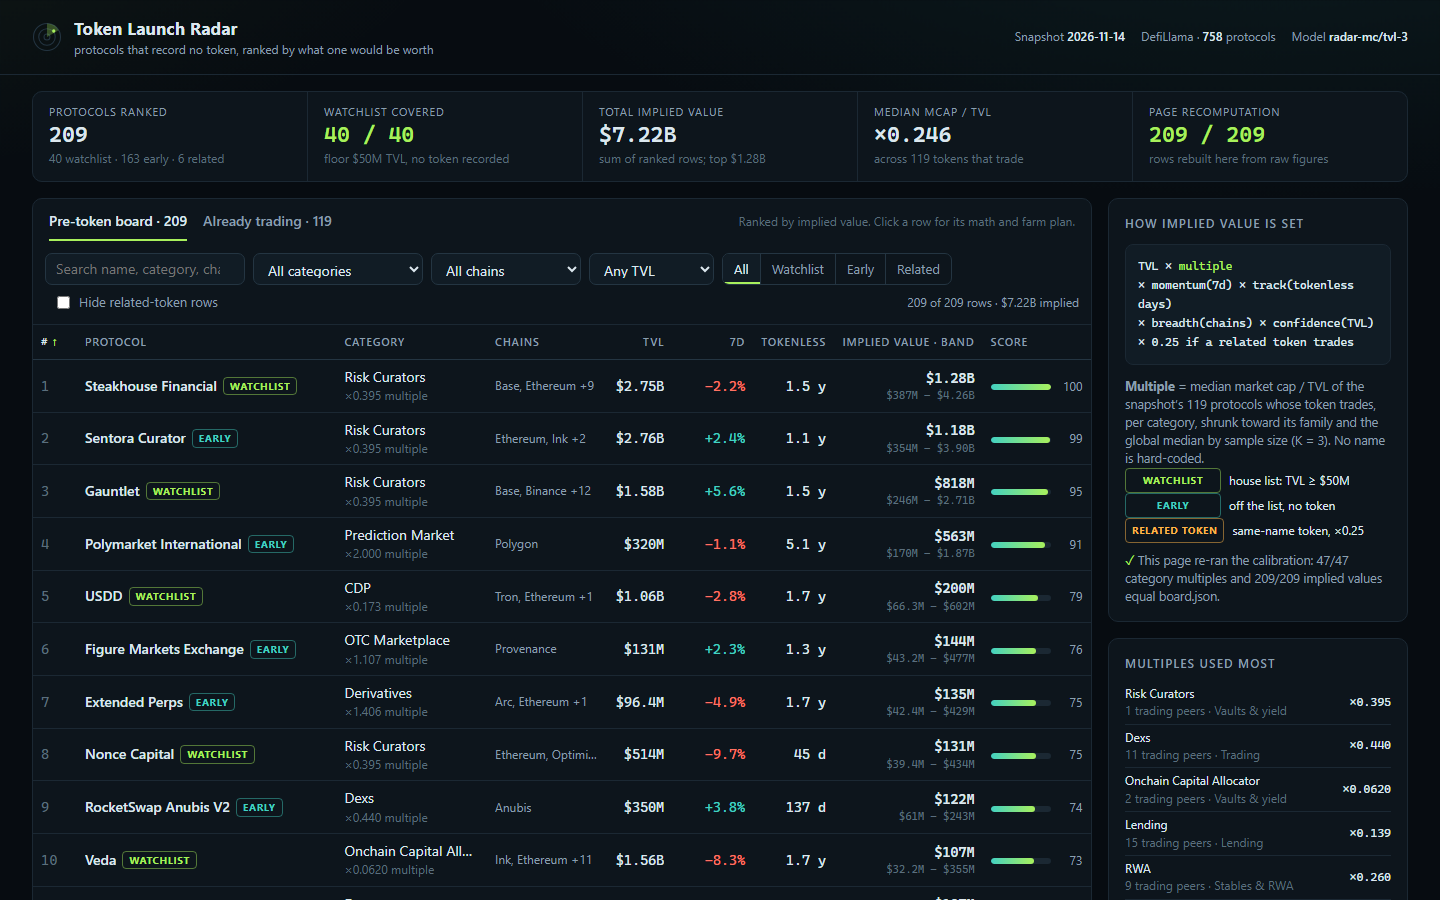
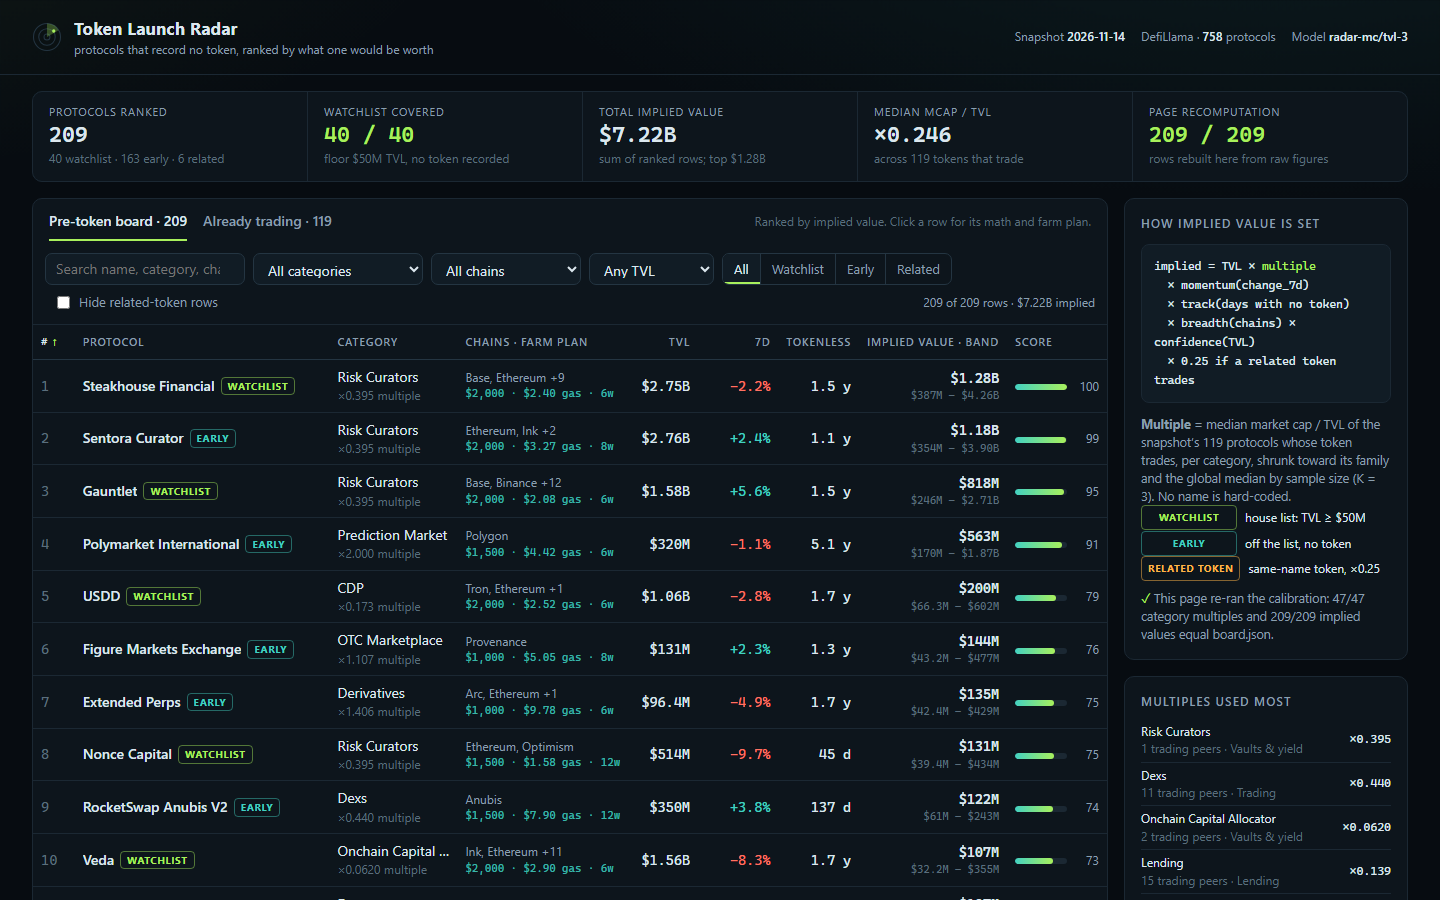
Farm summary on every board row, family-specific weekly actions, plans state 'records no token'; main.ts: snapshot errors, coverage check, summary block; formula box per factor

diff --git a/main.ts b/main.ts
@@ -15,8 +15,8 @@
 import { copyFileSync, existsSync, mkdirSync, readFileSync, readdirSync, statSync, writeFileSync } from 'node:fs';
 import { join } from 'node:path';
 import { fileURLToPath } from 'node:url';
-import { FAMILIES, GAS, K, MODEL_VERSION, boardIssue, buildRadar, parseSnapshot, stepStrings } from './lib/model.ts';
-import type { Row } from './lib/model.ts';
+import { FAMILIES, GAS, K, MODEL_VERSION, SnapshotError, boardIssue, buildRadar, median, parseSnapshot, stepStrings } from './lib/model.ts';
+import type { Row, Snapshot } from './lib/model.ts';
 import { buildDossier } from './vendor/makefun-board.ts';
 
 const here = fileURLToPath(new URL('.', import.meta.url));
@@ -39,8 +39,16 @@ const inputFile = inputArg.endsWith('.json') ? inputArg : join(inputArg, 'snapsh
 if (!existsSync(inputFile)) fail(`no snapshot at ${inputFile}: pass --input <snapshot.json|dir>`, 2);
 const out = arg('output', process.env.MAKEFUN_OUTPUT_DIR ?? '/output');
 
-const snapshot = parseSnapshot(readFileSync(inputFile, 'utf8'));
+let snapshot: Snapshot;
+try {
+  snapshot = parseSnapshot(readFileSync(inputFile, 'utf8'));
+} catch (err) {
+  fail(err instanceof SnapshotError ? err.message : `cannot read ${inputFile}: ${String(err)}`, 2);
+}
 const radar = buildRadar(snapshot);
+const covered = new Set(radar.rows.map((r) => r.slug));
+const uncovered = snapshot.watchlist.filter((w) => !covered.has(w));
+if (uncovered.length > 0) fail(`watchlist slugs the snapshot does not list: ${uncovered.join(', ')}`);
 
 // ---------------------------------------------------------------- board.json
 
@@ -70,6 +78,22 @@ const boardRow = (r: Row) => ({
 const rows = radar.rows.map(boardRow);
 const issue = boardIssue(rows, snapshot);
 if (issue !== null) fail(`the board would fail the gate: ${issue}`);
+const silent = rows.filter((r) => r.lane !== 'related' && !r.farm_steps.some((t) => t.includes('records no token')));
+if (silent.length > 0) fail(`${silent[0]!.slug}'s plan never says it records no token`);
+
+const lanes = { watchlist: 0, early: 0, related: 0 };
+for (const r of radar.rows) lanes[r.lane]++;
+const values = radar.rows.map((r) => r.implied_value_usd);
+const summary = {
+  rows: rows.length,
+  lanes,
+  watchlist_covered: `${snapshot.watchlist.length}/${snapshot.watchlist.length}`,
+  calibration_peers: radar.peers.length,
+  total_implied_usd: values.reduce((a, v) => a + v, 0),
+  median_implied_usd: median(values),
+  global_multiple: radar.calibration.global.multiple,
+  top: rows.slice(0, 5).map((r) => `${r.rank}. ${r.name} ${r.implied_value_usd}`),
+};
 
 const modelNote = {
   version: MODEL_VERSION,
@@ -81,7 +105,7 @@ const modelNote = {
   note: 'Implied value is this radar\'s claim of what a token would be worth if the protocol\'s record stayed as it is; it does not predict whether or when a token is issued. A protocol here records no token in the snapshot; that is not proof it has none.',
 };
 mkdirSync(out, { recursive: true });
-writeFileSync(join(out, 'board.json'), `${JSON.stringify({ model: modelNote, calibration: radar.calibration, excluded: radar.excluded, rows })}\n`);
+writeFileSync(join(out, 'board.json'), `${JSON.stringify({ model: modelNote, summary, calibration: radar.calibration, excluded: radar.excluded, rows })}\n`);
 
 // ---------------------------------------------------------------- data.js
 
@@ -123,8 +147,6 @@ for (const n of shots) if (!IMAGE_NAME.test(n)) fail(`screenshots/${n} is not a 
 
 writeFileSync(join(out, 'dossier.json'), buildDossier(out, { text_max_bytes: TEXT_MAX_BYTES, screenshots: { max: 4, max_bytes: 524_288 }, dashboard: { max_files: 400, max_bytes: 4_194_304 } }));
 
-const lanes = { watchlist: 0, early: 0, related: 0 };
-for (const r of radar.rows) lanes[r.lane]++;
 process.stdout.write(
   `token radar: ${snapshot.protocols.length} protocols, ${radar.peers.length} calibration peers, ${rows.length} rows ` +
     `(${lanes.watchlist} watchlist, ${lanes.early} early, ${lanes.related} related-token)\n` +

diff --git a/lib/model.ts b/lib/model.ts
@@ -312,7 +312,18 @@ export interface Plan {
   steps: PlanStep[];
 }
 
-const money = (n: number): string => (n >= 100 ? `$${Math.round(n).toLocaleString('en-US')}` : n >= 1 ? `$${n.toFixed(2).replace(/\.00$/, '')}` : `$${n.toFixed(2)}`);
+/** Dollars as text, with thousands grouped by hand (no locale data, so every run spells it the same). */
+const money = (n: number): string => (n >= 100 ? `$${String(Math.round(n)).replace(/\B(?=(\d{3})+$)/g, ',')}` : n >= 1 ? `$${n.toFixed(2).replace(/\.00$/, '')}` : `$${n.toFixed(2)}`);
+
+/** The weekly touch that keeps a wallet active, by family: what an active user of that kind of app does. */
+const WEEKLY_ACTION: Record<string, string> = {
+  Lending: 'repay 10% of the loan and borrow it again, or add $50 of supply',
+  Trading: 'trade the week\'s volume and close every position by the weekend',
+  'Vaults & yield': 'top up $50 or claim and compound the vault\'s rewards',
+  'Stables & RWA': 'claim the accrued yield and restake it, or add $50 to the position',
+  'Chains & infra': 'make one swap, one deposit and one withdrawal in the ecosystem\'s apps',
+  Other: 'claim, compound or top up the position by $50',
+};
 
 /** The chain to farm on: the protocol's main (first) chain, unless that costs a dollar or more a transaction and a cheap chain is among its first four. */
 export function chainFor(p: SnapshotProtocol): { chain: string; gas: number; fund: number; alt: string | null } {
@@ -419,7 +430,7 @@ export function buildPlan(p: SnapshotProtocol, age: number | null, lane: Lane): 
   steps.push({ step: 'Enter', action: `${action}.`, capital, fees: r2(txs * gas), txs, minutes: 10 + txs * 5, span: 'day 0' });
   steps.push({
     step: 'Repeat',
-    action: `Once a week, claim or compound and make one extra interaction (top-up, rebalance or a swap) so the address is active in every weekly snapshot for ${weeks} weeks: ${weeks * 2} transactions in all${weeklyFee > 0 ? `, plus about ${money(weeklyFee)} a week in trading fees` : ''}.`,
+    action: `Once a week for ${weeks} weeks, ${WEEKLY_ACTION[familyOf(p.category)]}, so the address is active in every weekly snapshot: ${weeks * 2} transactions in all${weeklyFee > 0 ? `, plus about ${money(weeklyFee)} a week in trading fees` : ''}.`,
     capital: 0, fees: r2(weeks * (2 * gas + weeklyFee)), txs: weeks * 2, minutes: weeks * 10, span: `${weeks} weeks`,
   });
   if (p.chains.length >= 3) {
@@ -435,7 +446,7 @@ export function buildPlan(p: SnapshotProtocol, age: number | null, lane: Lane): 
   }
   steps.push({
     step: 'Track',
-    action: `Track ${track} every week. Its TVL moved ${mom === null ? 'an unreported amount' : `${mom > 0 ? '+' : ''}${mom.toFixed(1)}%`} in the snapshot week; a fall of 25% or more in a week, or a paused withdrawal, is the signal to exit.`,
+    action: `${p.name} records no token in the snapshot; watch its own site for a points page or token news. Track ${track} every week. Its TVL moved ${mom === null ? 'an unreported amount' : `${mom > 0 ? '+' : ''}${mom.toFixed(1)}%`} in the snapshot week; a fall of 25% or more in a week, or a paused withdrawal, is the signal to exit.`,
     capital: 0, fees: 0, txs: 0, minutes: weeks * 5, span: 'weekly',
   });
   steps.push({

diff --git a/dashboard/app.css b/dashboard/app.css
@@ -56,7 +56,7 @@ button, input, select { font: inherit; color: inherit; }
 main { padding: var(--s4) var(--s6) var(--s6); }
 
 /* board layout */
-.layout { display: grid; grid-template-columns: minmax(0, 1fr) 300px; gap: var(--s4); align-items: start; }
+.layout { display: grid; grid-template-columns: minmax(0, 1fr) 284px; gap: var(--s4); align-items: start; }
 .panel { background: var(--panel); border: 1px solid var(--line); border-radius: var(--r); overflow: hidden; }
 body.is-detail .kpis { display: none; }
 .panel h3 { margin: 0; font-size: 12px; text-transform: uppercase; letter-spacing: .09em; color: var(--mute); font-weight: 600; }
@@ -91,15 +91,16 @@ td { padding: 7px 8px; border-bottom: 1px solid var(--line); vertical-align: mid
 tbody tr { cursor: pointer; }
 tbody tr:hover td { background: rgba(67, 209, 193, .05); }
 td.rk { color: var(--dim); width: 44px; font-family: var(--mono); }
-.pname { font-weight: 600; max-width: 190px; overflow: hidden; text-overflow: ellipsis; display: inline-block; vertical-align: bottom; }
+.pname { font-weight: 600; max-width: 172px; overflow: hidden; text-overflow: ellipsis; display: inline-block; vertical-align: bottom; }
 .sub { display: block; color: var(--dim); font-size: 12px; }
-.chains { color: var(--mute); font-size: 12px; max-width: 120px; overflow: hidden; text-overflow: ellipsis; }
-.catc { max-width: 150px; overflow: hidden; text-overflow: ellipsis; }
+.chains { color: var(--mute); font-size: 12px; max-width: 176px; overflow: hidden; text-overflow: ellipsis; }
+.sub.farm { color: var(--teal); opacity: .85; font-family: var(--mono); font-size: 11px; }
+.catc { max-width: 128px; overflow: hidden; text-overflow: ellipsis; }
 .up { color: var(--teal); }
 .down { color: var(--red); }
 .val { font-weight: 600; }
 .band { display: block; color: var(--dim); font-size: 11px; }
-.bar { width: 60px; height: 6px; background: var(--line); border-radius: 3px; overflow: hidden; display: inline-block; vertical-align: middle; }
+.bar { width: 52px; height: 6px; background: var(--line); border-radius: 3px; overflow: hidden; display: inline-block; vertical-align: middle; }
 .bar i { display: block; height: 100%; background: linear-gradient(90deg, var(--teal), var(--lime)); border-radius: 3px; }
 .bar.rel i { background: var(--amber); }
 .sc { display: inline-block; width: 26px; text-align: right; color: var(--mute); font-size: 12px; margin-left: 6px; }
@@ -113,7 +114,7 @@ td.rk { color: var(--dim); width: 44px; font-family: var(--mono); }
 
 /* side rail */
 .rail { display: grid; gap: var(--s4); }
-.formula { font: 11.5px/1.65 var(--mono); color: var(--ink); background: var(--panel-2); border: 1px solid var(--line); border-radius: 8px; padding: var(--s3); margin: var(--s3) 0; }
+.formula { white-space: pre-wrap; font: 11.5px/1.65 var(--mono); color: var(--ink); background: var(--panel-2); border: 1px solid var(--line); border-radius: 8px; padding: var(--s3); margin: var(--s3) 0; }
 .formula em { color: var(--lime); font-style: normal; }
 .rail p { margin: var(--s2) 0 0; color: var(--mute); font-size: 12.5px; }
 .mini { width: 100%; font-size: 12px; margin-top: var(--s2); }

diff --git a/dashboard/app.js b/dashboard/app.js
@@ -140,7 +140,7 @@
     var top = Object.keys(cats).sort(function (a, b) { return cats[b] - cats[a] || (a < b ? -1 : 1); }).slice(0, 7);
     return '<aside class="rail">' +
       '<div class="panel pad"><h3>How implied value is set</h3>' +
-      '<div class="formula">TVL × <em>multiple</em><br>× momentum(7d) × track(tokenless days)<br>× breadth(chains) × confidence(TVL)<br>× 0.25 if a related token trades</div>' +
+      '<div class="formula">implied = TVL × <em>multiple</em><br>  × momentum(change_7d)<br>  × track(days with no token)<br>  × breadth(chains) × confidence(TVL)<br>  × ' + K.related_haircut + ' if a related token trades</div>' +
       '<p><b>Multiple</b> = median market cap / TVL of the snapshot’s ' + D.peers.length + ' protocols whose token trades, per category, shrunk toward its family and the global median by sample size (K = ' + K.shrink + '). No name is hard-coded.</p>' +
       '<div class="legend">' + tag('watchlist') + '<span>house list: TVL ≥ ' + usd(D.floor_usd) + '</span>' + tag('early') + '<span>off the list, no token</span>' + tag('related') + '<span>same-name token, ×' + K.related_haircut + '</span></div>' +
       '<p class="check"><span class="ok">✓</span> This page re-ran the calibration: ' + CAT_OK + '/' + catList.length + ' category multiples and ' + MATCH + '/' + D.rows.length + ' implied values equal board.json.</p></div>' +
@@ -154,7 +154,7 @@
 
   // ------------------------------------------------------------ the board
   var COLS = [
-    ['rank', '#', 'rk'], ['name', 'Protocol', ''], ['cat', 'Category', ''], ['chains', 'Chains', ''],
+    ['rank', '#', 'rk'], ['name', 'Protocol', ''], ['cat', 'Category', ''], ['chains', 'Chains · farm plan', ''],
     ['tvl', 'TVL', 'n'], ['c7', '7d', 'n'], ['age', 'Tokenless', 'n'], ['v', 'Implied value · band', 'n'], ['score', 'Score', '']
   ];
   function keyOf(r, k) {
@@ -184,7 +184,7 @@
     return '<tr data-slug="' + esc(r.slug) + '"><td class="rk">' + r.rank + '</td>' +
       '<td><span class="pname">' + esc(r.name) + '</span>' + tag(r.lane) + '</td>' +
       '<td class="catc">' + esc(r.cat || 'Uncategorised') + '<span class="sub">' + x(r.f.multiple) + ' multiple</span></td>' +
-      '<td class="chains">' + esc(r.chains.slice(0, 2).join(', ')) + more + '</td>' +
+      '<td class="chains">' + esc(r.chains.slice(0, 2).join(', ')) + more + '<span class="sub farm">' + dollars(r.plan.capital) + ' · ' + dollars(r.plan.fees_total) + ' gas · ' + r.plan.weeks + 'w</span></td>' +
       '<td class="n">' + usd(r.tvl) + '</td><td class="n">' + pct(r.c7) + '</td><td class="n">' + age(r.age) + '</td>' +
       '<td class="n"><span class="val">' + usd(r.v) + '</span><span class="band">' + usd(r.lo) + ' – ' + usd(r.hi) + '</span></td>' +
       '<td><span class="bar' + (r.lane === 'related' ? ' rel' : '') + '"><i style="width:' + r.score + '%"></i></span><span class="sc">' + r.score + '</span></td></tr>';
